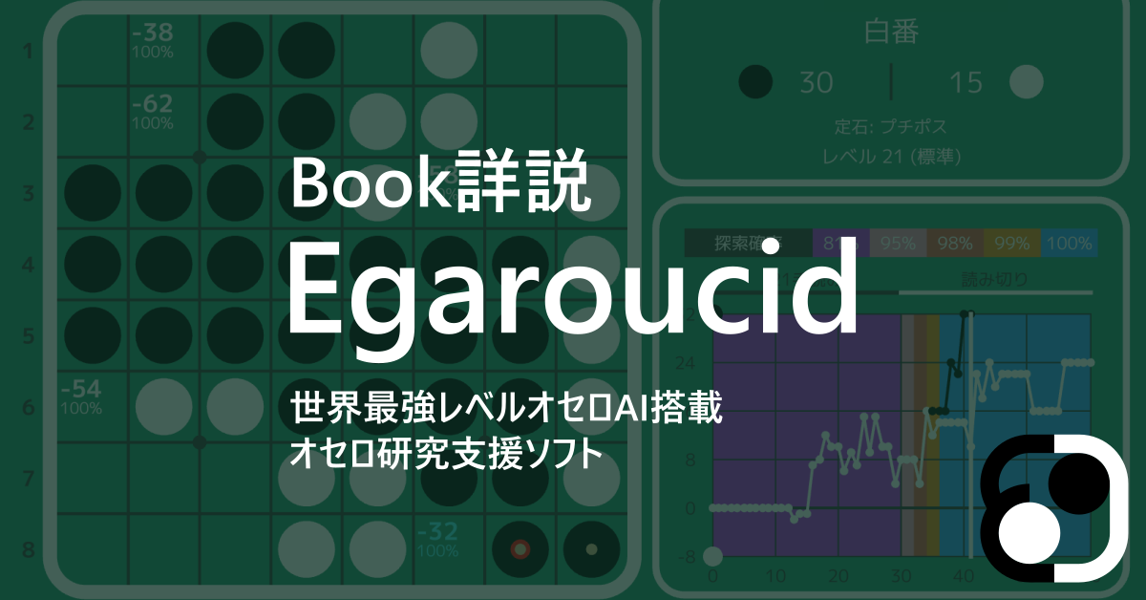
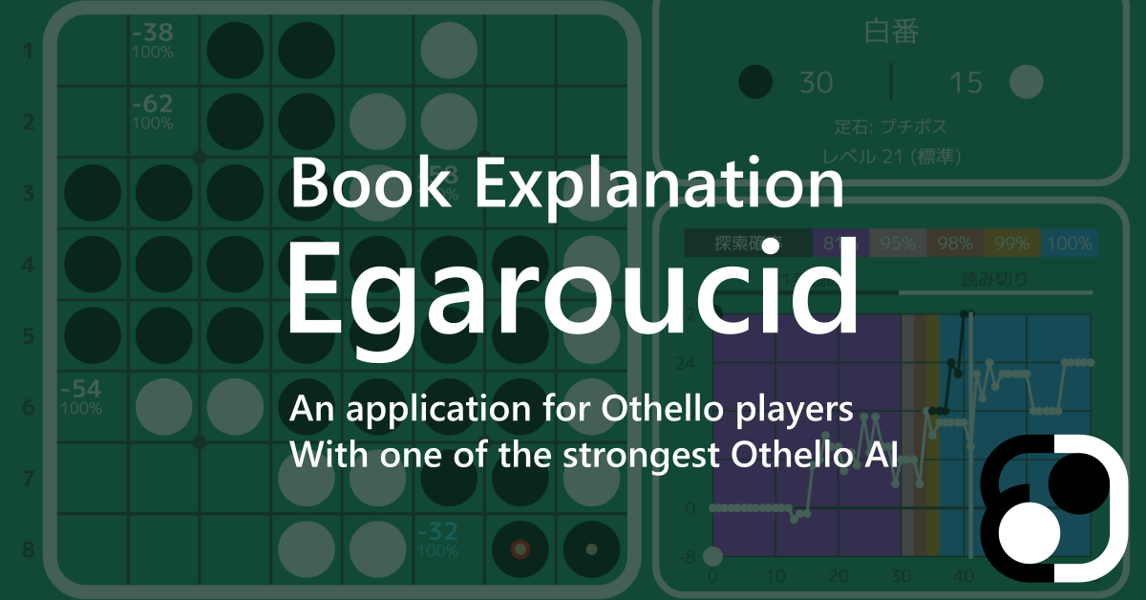
update eyecatch, update web

Changed region(s): [[0.2443, 0.63, 0.7941, 0.81], [0.397, 0.24, 0.733, 0.39]]

diff --git a/web_resources/generate_html.py b/web_resources/generate_html.py
@@ -519,13 +519,25 @@ def create_html(dr):
     with open(out_dr + '/index.html', 'w', encoding='utf-8') as f:
         f.write(head + alternate + og_image + additional_head + head_title + head2 + menu + html + foot)
     shutil.copy(css_file, out_dr + '/style.css')
-    if os.path.exists(dr + '/img'):
-        img_files = glob.glob(dr + '/img/**')
-        os.mkdir(out_dr + '/img')
-        for file in img_files:
-            resized_img = convert_img(file)
-            file_name = file.split('\\')[-1]
-            resized_img.save(out_dr + '/img/' + file_name)
+    src_img_dir = os.path.join(dr, 'img')
+    if os.path.isdir(src_img_dir):
+        dst_img_dir = os.path.join(out_dr, 'img')
+        os.makedirs(dst_img_dir, exist_ok=True)
+        for root, _, files in os.walk(src_img_dir):
+            relative_root = os.path.relpath(root, src_img_dir)
+            if relative_root == '.':
+                dst_root = dst_img_dir
+            else:
+                dst_root = os.path.join(dst_img_dir, relative_root)
+                os.makedirs(dst_root, exist_ok=True)
+            for file_name in files:
+                src_file = os.path.join(root, file_name)
+                dst_file = os.path.join(dst_root, file_name)
+                try:
+                    resized_img = convert_img(src_file)
+                    resized_img.save(dst_file)
+                except OSError:
+                    shutil.copy(src_file, dst_file)
     try:
         with open(dr + '/additional_files.txt', 'r', encoding='utf-8') as f:
             additional_files_file_str = f.read().splitlines()